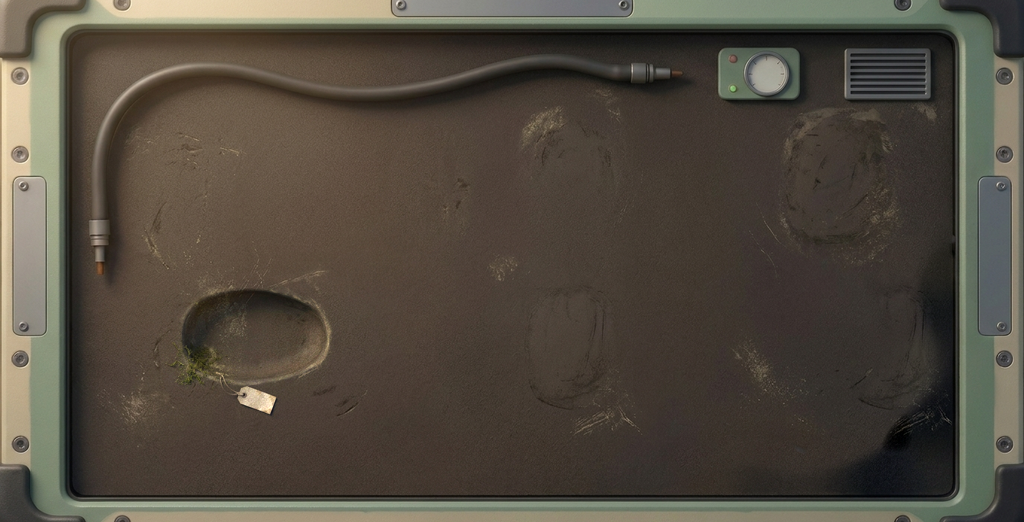
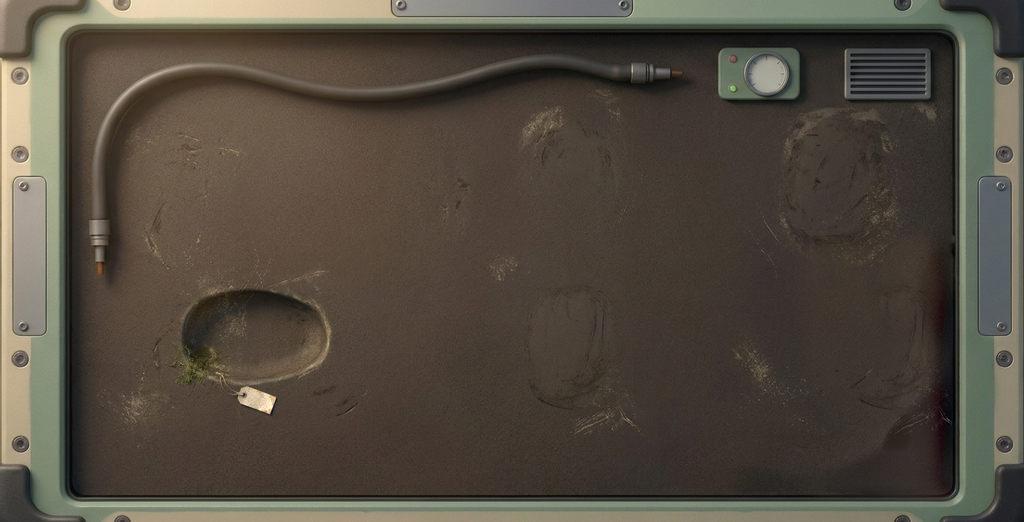
Pods masters: P-A1/P-A2 follow-up, the hose ghost lifted from the chapter and overview stages

Changed region(s): [[0.8125, 0.7663, 0.9375, 0.9502]]

diff --git a/art/station-masters/pods/stage-recut/lift-hose-ghost.py b/art/station-masters/pods/stage-recut/lift-hose-ghost.py
@@ -1,0 +1,26 @@
+# Fix 5 P-A1 follow-up: the hose paint-out left a cool, near-black low-frequency residue along the right wall and in the bottom-right
+# corner of room-bench-stage-chapter (x 790-948, y 225-508; e.g. (23, 24, 25) against the wall's (57, 49, 46)). Where the slice's
+# 18 px blur is more than 8 % darker than the clean wall at the same row, its low frequency is replaced, per channel in linear light,
+# by the clean wall's (the per-row median of the blur over x 600-760, x 0.94 for the fall-off toward the frame); the high frequency
+# (grain, strokes, the dust prints) stays. A 6 px feathered mask; nothing outside the region changes.
+# usage: python3 -I lift-hose-ghost.py IN OUT
+import sys, numpy as np
+from PIL import Image
+from scipy import ndimage as nd
+a = np.asarray(Image.open(sys.argv[1]).convert('RGBA')).astype(float)
+def lin(c): c = c / 255; return np.where(c <= 0.04045, c / 12.92, ((c + 0.055) / 1.055) ** 2.4)
+def srgb(l): l = np.clip(l, 0, 1); return np.where(l <= 0.0031308, l * 12.92, 1.055 * l ** (1 / 2.4) - 0.055) * 255
+L = lin(a[..., :3]); H, W = L.shape[:2]
+low = nd.gaussian_filter(L, (18, 18, 0))
+tgt = np.stack([np.median(low[y, 600:760], 0) for y in range(H)]) * 0.94
+target = np.repeat(tgt[:, None, :], W, 1)
+Y = lambda c: c @ [.2126, .7152, .0722]
+reg = np.zeros((H, W), bool); reg[225:508, 790:951] = True
+xs, ys = np.arange(W), np.arange(H)                                   # the region feathered inward over 24 px on the left, top and bottom; full to the frame
+soft = np.outer(np.clip(np.minimum(ys - 225, 508 - ys) / 24, 0, 1), np.clip((xs - 790) / 24, 0, 1)) * reg
+need = reg & (Y(low) < Y(target) * 0.92)
+mask = (nd.gaussian_filter(nd.binary_dilation(need, iterations=6).astype(float), 6) * soft)[..., None]
+new = np.clip(target + (L - low), 0, 1)
+out = a.copy(); out[..., :3] = np.round(srgb(L * (1 - mask) + new * mask))
+Image.fromarray(out.astype(np.uint8), 'RGBA').save(sys.argv[2])
+print('px changed', int((np.abs(out - a).sum(-1) > 0).sum()))
